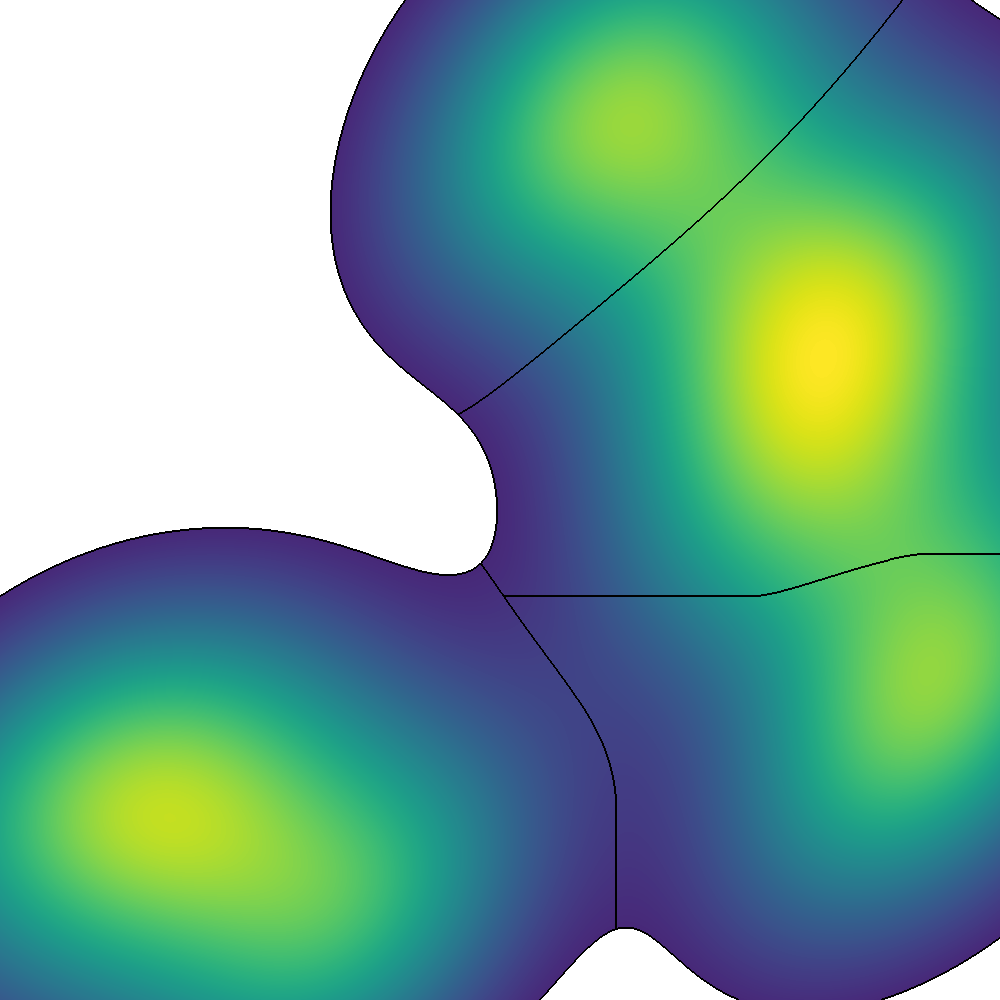
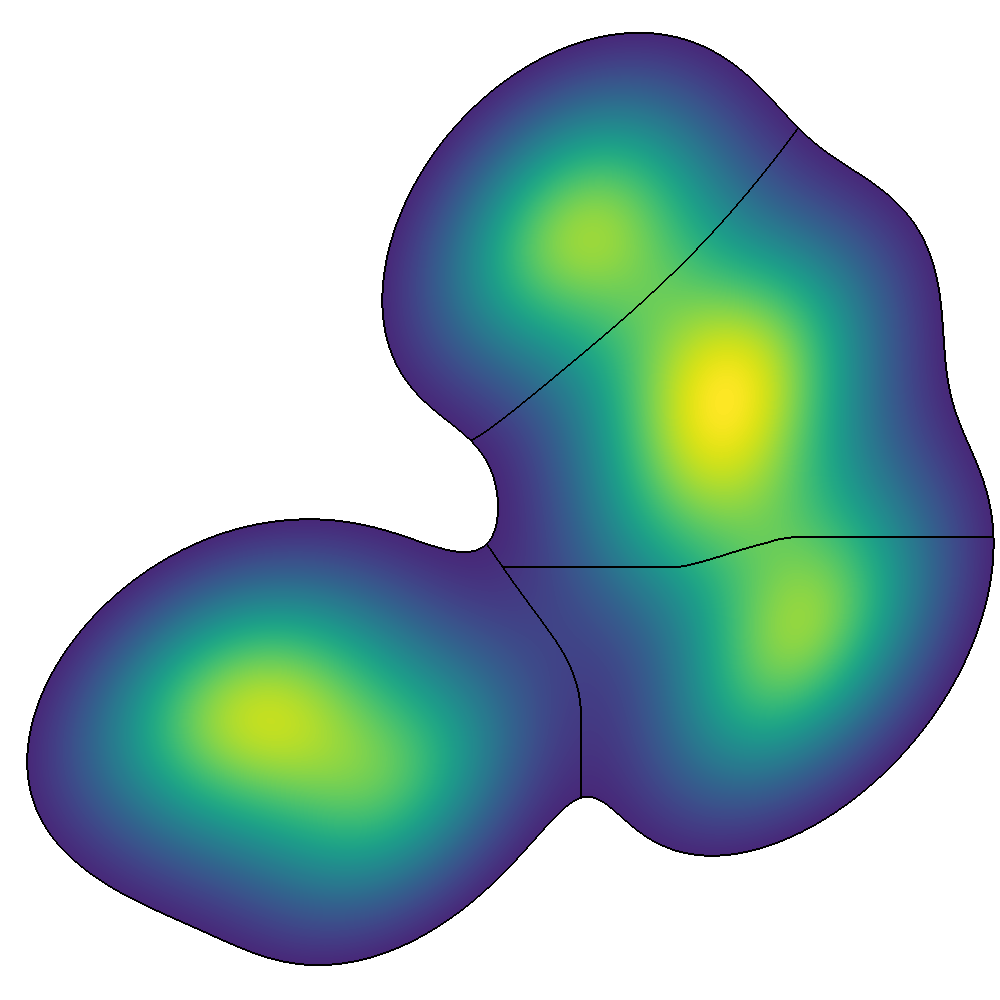
added customization params

diff --git a/utils.py b/utils.py
@@ -11,6 +11,9 @@ from skimage.segmentation import watershed, find_boundaries
 from sklearn import preprocessing
 from scipy.spatial import ConvexHull
 
+DENSITY_THRESHOLD = 5e-5
+PERPLEXITY = 10
+PAD_RATIO = 0.22
 
 def parse_args():
     '''
@@ -26,8 +29,8 @@ def get_data(path: str):
     '''
     assert path.endswith('.csv'), 'Invalid file format. Only .csv files are supported.'
     assert os.path.exists(path), 'File not found.'
-    data = pd.read_csv(path)
-    return data
+    dataframe = pd.read_csv(path)
+    return dataframe
 
 def embed_data(data: pd.DataFrame, **kwargs):
     '''
@@ -35,7 +38,7 @@ def embed_data(data: pd.DataFrame, **kwargs):
     The perplexity value can significantly affect the number of regions in the final plot.
     '''
     normalized_data = preprocessing.StandardScaler().fit_transform(data)
-    model = TSNE(n_components=2, learning_rate='auto', init='pca', **kwargs)
+    model = TSNE(n_components=2, learning_rate='auto', init='pca', perplexity=PERPLEXITY, **kwargs)
     embedded_data = model.fit_transform(normalized_data)
     # plt.scatter(embedded_data[:, 0], embedded_data[:, 1], c='red', s=1)
     # plt.show()
@@ -47,6 +50,12 @@ def get_positions_from_data(data: np.array, resolution=1000):
     '''
     xmin, xmax = data[:, 0].min(), data[:, 0].max()
     ymin, ymax = data[:, 1].min(), data[:, 1].max()
+    xrange = xmax - xmin
+    yrange = ymax - ymin
+    xmin -= PAD_RATIO * xrange
+    xmax += PAD_RATIO * xrange
+    ymin -= PAD_RATIO * yrange
+    ymax += PAD_RATIO * yrange
     X, Y = np.meshgrid(np.linspace(xmin, xmax, resolution), np.linspace(ymin, ymax, resolution))
     positions = np.array([X.ravel(), Y.ravel()])
     return positions, X.shape
@@ -71,8 +80,10 @@ def get_cluster_labels(density_matrix: np.array):
     Cluster the points in the density matrix using the watershed algorithm.
     '''
     inverted_matrix = -density_matrix
-    mask = density_matrix > 5e-5
-    return watershed(inverted_matrix, mask=mask)
+    mask = density_matrix > DENSITY_THRESHOLD
+    cluster_mask = watershed(inverted_matrix, mask=mask)
+    print('Found {} unique clusters'.format(len(np.unique(cluster_mask))-1))
+    return cluster_mask
 
 def cluster_data(data: np.array):
     '''
@@ -121,6 +132,9 @@ def plot_convex_hull(positions, image, points):
     return get_image_from_plot()
 
 def set_white_pixels_transparent(image):
+    '''
+    Set all white pixels as transparent pixels.
+    '''
     h, w, _ = image.shape
     new_image = np.concatenate([image, np.full((h, w, 1), 1, dtype=image.dtype)], axis=-1)
     white = np.all(image == [1, 1, 1], axis=-1)

diff --git a/main.py b/main.py
@@ -8,7 +8,7 @@ if __name__ == '__main__':
     data = get_data(args.path)
 
     # Embed data into 2D space.
-    embedded_data = embed_data(data, perplexity=10)
+    embedded_data = embed_data(data)
 
     # Cluster data
     positions, density_matrix, clustered_data = cluster_data(embedded_data)

diff --git a/README.md b/README.md
@@ -5,7 +5,7 @@ Behaviors of organisms are sometimes encoded as high-dimensional feature vectors
 
 <br>
 <p align='center'>
-<img src='iris.png'  width=30%>
+<img src='iris.png'  width=45%>
 </p>
 
 ### Usage
